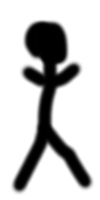
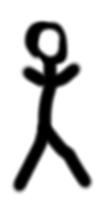
Person displays

Changed region(s): [[0.36, 0.12, 0.63, 0.3]]

diff --git a/splittything.py b/splittything.py
@@ -10,7 +10,7 @@ def load_image(name):
 	except pygame.error, message:
 		print 'Cannot load image:', name
 		raise SystemExit, message
-	image = image.convert()
+	image = image.convert_alpha()
 	return image, image.get_rect()
 
 class Person(pygame.sprite.Sprite):
@@ -38,7 +38,14 @@ clock = pygame.time.Clock()
 
 while True:
 	clock.tick(60)
+	
     #Handle Input Events
 	for event in pygame.event.get():
 		if event.type == QUIT:
 			break
+	
+	allsprites.update()
+	
+	screen.blit(background, (0, 0))
+	allsprites.draw(screen)
+	pygame.display.flip()
